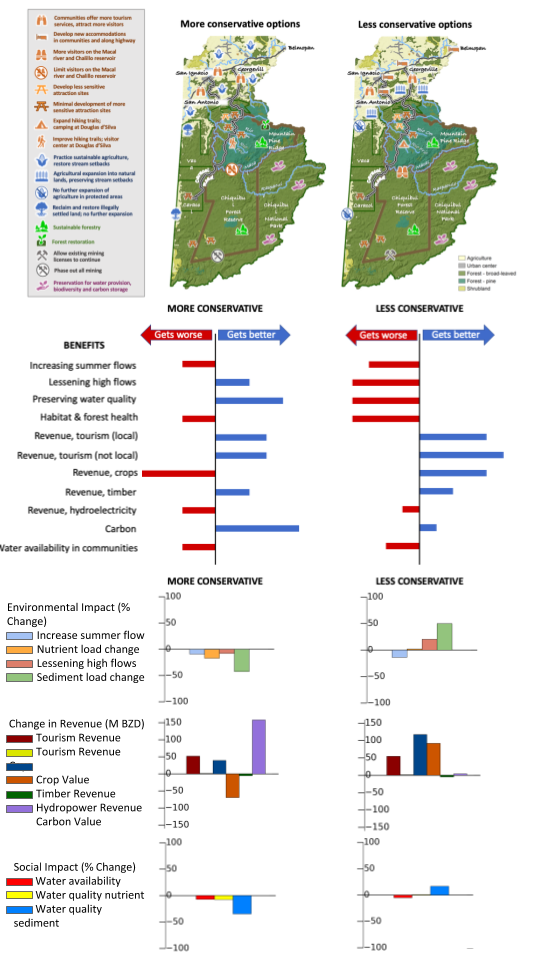
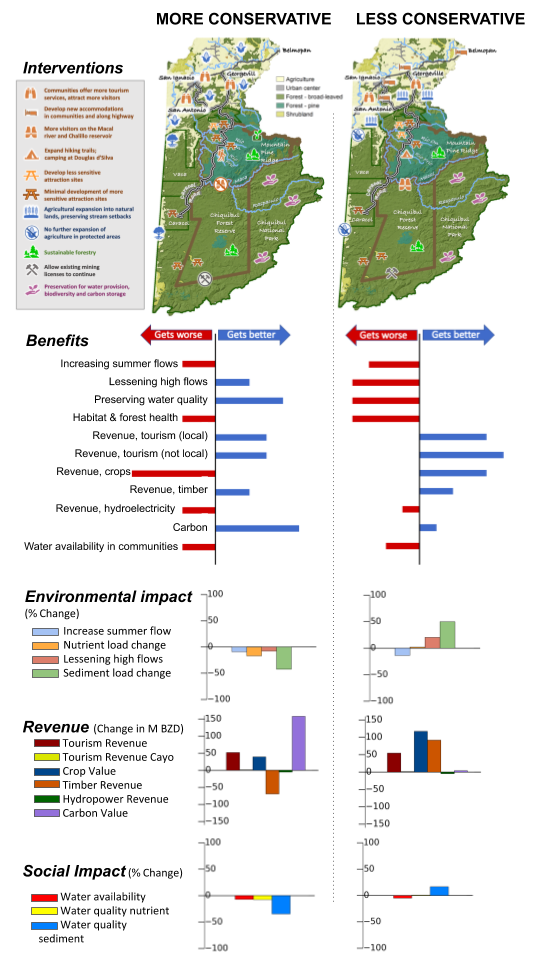
more edits to figures and main panel

diff --git a/index.html b/index.html
@@ -84,7 +84,7 @@
 	<div class="layerChecks" id="timber"><input type = "checkbox" id="timberCheckBox"> Timber Concessions<a class="dataLinkClose" href="https://docs.google.com/document/d/19cuUkXI-JI_9XogK8MqClx1oF2X5yANsAfa13NnzmHo/edit" target="_blank">download</a></div>
 	<!--<div class="layerChecks" id="timberExpansion"><input type = "checkbox" id="timberExpansionCheckBox"> Timber Expansion <a class="dataLinkClose" href="https://docs.google.com/document/d/19cuUkXI-JI_9XogK8MqClx1oF2X5yANsAfa13NnzmHo/edit" target="_blank">download</a></div>-->
 	<br>
-	<div class="layerChecks layerTitle" id="allMining"><!--<input type = "checkbox" id="allMiningCheckBox">--> Impact on Services <a class="dataLinkClose" href="https://docs.google.com/document/d/19cuUkXI-JI_9XogK8MqClx1oF2X5yANsAfa13NnzmHo/edit" target="_blank">download</a></div>
+	<div class="layerChecks layerTitle" id="allMining"><!--<input type = "checkbox" id="allMiningCheckBox">--> Ecosystem Services <a class="dataLinkClose" href="https://docs.google.com/document/d/19cuUkXI-JI_9XogK8MqClx1oF2X5yANsAfa13NnzmHo/edit" target="_blank">download</a></div>
 	<div class="layerChecks" id="impactHeatmap"><input type = "checkbox" id="heatmapCheckBox"> Benefits Impaired<a class="dataLinkClose" href="https://docs.google.com/document/d/19cuUkXI-JI_9XogK8MqClx1oF2X5yANsAfa13NnzmHo/edit" target="_blank">download</a></div>
 	<div class="layerChecks" id="impactHeatmap"><input type = "checkbox" id="waterflowCheckBox"> Total Water Flow<a class="dataLinkClose" href="https://docs.google.com/document/d/19cuUkXI-JI_9XogK8MqClx1oF2X5yANsAfa13NnzmHo/edit" target="_blank">download</a></div>
 	<div class="layerChecks" id="impactHeatmap"><input type = "checkbox" id="waterQualityCheckBox"> Water Quality Index<a class="dataLinkClose" href="https://docs.google.com/document/d/19cuUkXI-JI_9XogK8MqClx1oF2X5yANsAfa13NnzmHo/edit" target="_blank">download</a></div>
@@ -133,7 +133,7 @@
 <!-- LULC Panel  -->
 <div class= "LULCclose panels" id= "LULCPanel3"> <button type= "button" class= "exitButton" onclick="LULCPanelClose()">X</button><h3>Scenario Comparisons</h3>
 <br>
-	<img src="scripts/scenarioStaticFigure/StaticFigureViewer.png" id= "staticFigure" width= 100%>
+	<img src="scripts/StaticFigure0701.png" id= "staticFigure" width= 100%>
 <br>
 <button type= "button" class="close" id= "expandFigureButton" onclick="expandFigureOpen()">Click to Expand Figure</button>
 <button type= "button" class="button" id= "downloadFigureButton" onclick="downladFigure()"><img src="img/expand.png" width="30"></button>
@@ -148,7 +148,7 @@
 </div>
 
 <div class= "LULCclose panels" id= "LULCPanel2"><!--<h3>Expansion Scenarios Draft</h3> --><button type= "button" class= "exitButton" onclick="LULCPanelClose2()">X</button>
-	<img src="scripts/staticFigure0701.png" width= 100%>
+	<img src="scripts/currentStaticFigure.png" width= 100%>
 </div>
 <div class= "LULCclose panels" id= "LULCPanel1"><h3>Case 1</h3> <!--<button type= "button" class= "exitButton" onclick="LULCPanelClose1()">X</button>-->
 	<img src="img/placeholdersmall.png" height="100" width="100">

diff --git a/html/legend.html b/html/legend.html
@@ -21,7 +21,7 @@
 		<div><img src="img/placeholdersmall.png" alt="Interactive Legend for impacted Tourism Sites" height="20" width="20"> Tourism Impact Scores</div>
 	</div>
 	<div class="close" id="tourismExpansionIL">
-		<div><img src="img/pin.png" alt="Interactive Legend for Tourism Expansion" height="20" width="20"> Tourism ImpactScores</div>
+		<div><img src="img/pin.png" alt="Interactive Legend for Tourism Expansion" height="20" width="20"> Tourism Impact Scores</div>
 	</div>
 	<div class="close" id="allMiningIL">
 		<div><img src="img/placeholdersmall.png" alt="Interactive Legend for all Mining Sites" height="20" width="20"> Mining</div>
@@ -33,8 +33,7 @@
 		<div><img src="img/miningExpansion.png" alt="Interactive Legend for Mining Expansion" height="20" width="20"> Mining Expansion</div>
 	</div>
 	<div class="close" id="heatmapIL">
-		<div><img src="img/heatmapLegend.png" alt="Interactive Legend for Impact Heatmap" width="40%"> Impact Intensity (low to high)</div>
-		<div><img src="img/inactiveTimberConcessions.png" alt="Interactive Legend for Impact Heatmap" width="20" height="20"> No Impact Areas</div>
+		<div><img src="img/heatmapLegendFull.png" alt="Interactive Legend for Impact Heatmap" width="60%"> Impact Intensity</div>
 	</div>
 	<div class="close" id="allAgricultureIL">
 		<div><img src="img/currentAgriculture.png" alt="Interactive Legend for all Agriculture" height="20" width="20"> Agriculture</div>

diff --git a/js/LULCControls.js b/js/LULCControls.js
@@ -89,7 +89,7 @@ document.getElementById("expandFigureButton").addEventListener("click", function
 });
 
 document.getElementById('downloadFigureButton').addEventListener("click", function(){
-   window.open('scripts/StaticFigureViewer.png');
+   window.open('scripts/currentStaticFigure.png');
 });
 
 

diff --git a/js/layers.js b/js/layers.js
@@ -141,9 +141,9 @@
 	} 
 
 		var heatmapStyle = {
-		"color": "#7E7E7E",
+		"color": "#BDBDBD",
 		"fillOpacity":1,
-		"stroke": "#7E7E7E",
+		"stroke": "#BDBDBD",
 		"weight": 0.5,
 	}
 

diff --git a/css/belizeStylesheet.css b/css/belizeStylesheet.css
@@ -300,7 +300,7 @@ html *{
 .leaflet-popup-content-wrapper, .leaflet-popup-tip {
 	background:#302e25;
 	opacity: 0.95;
-	color: #E34234;
+	color: #DFDCE3;
 	font-size: 2.3vh;
 
 }
